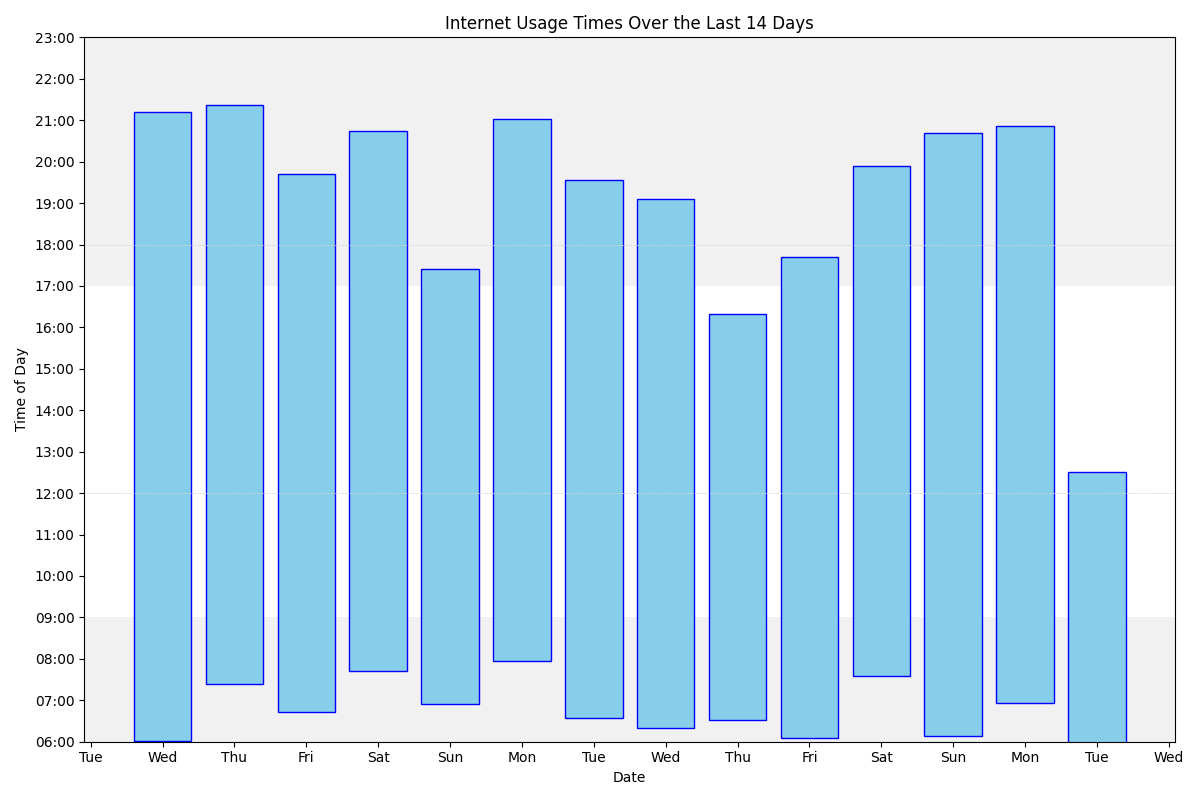
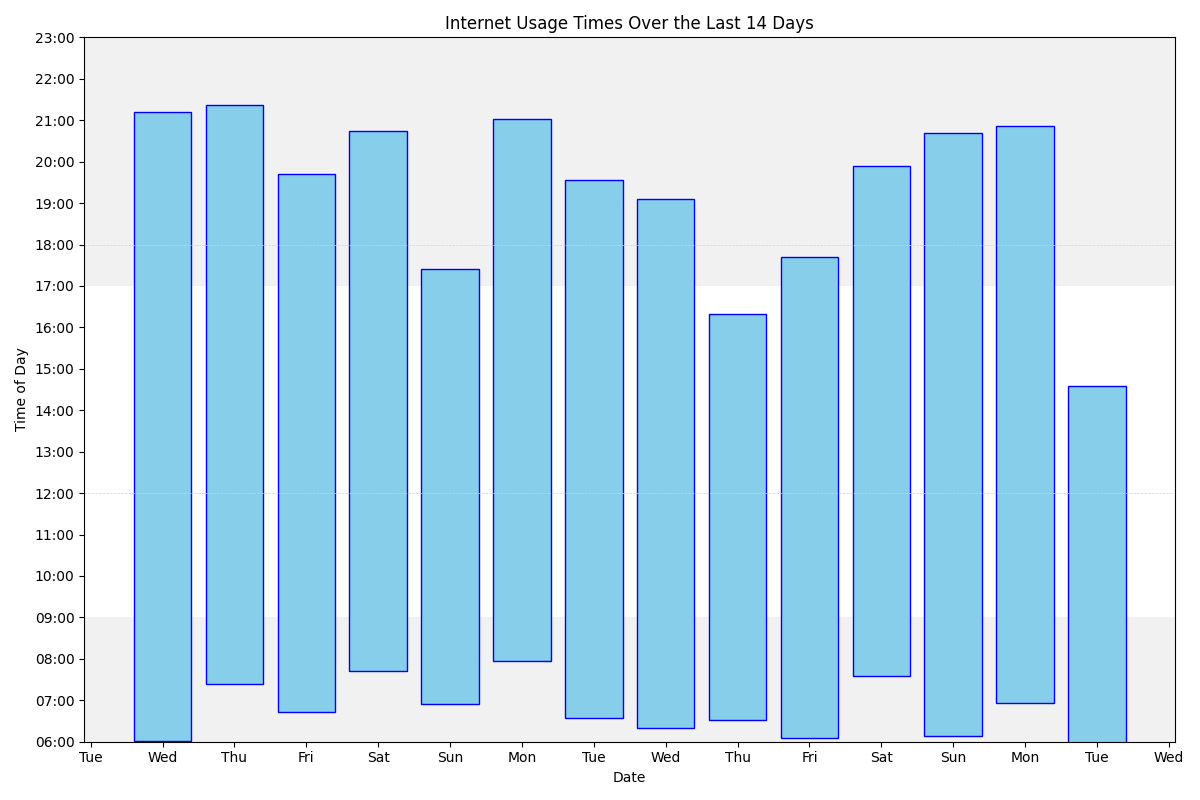
Update

Changed region(s): [[0.8633, 0.4688, 0.9558, 0.5938]]

diff --git a/index.md b/index.md
@@ -68,29 +68,29 @@ ul>li::after {
 <h3> Most common sites</h3>
 With number of accesses/minutes in parentheses
 
-<ol><li>www.google.com (2835)</li>
-<li>outlook.office.com (2449)</li>
-<li>mail.google.com (2252)</li>
+<ol><li>www.google.com (2836)</li>
+<li>outlook.office.com (2455)</li>
+<li>mail.google.com (2263)</li>
 <li>docs.google.com (1785)</li>
 <li>bsky.app (1437)</li>
-<li>outlook.office365.com (1254)</li>
+<li>outlook.office365.com (1255)</li>
 <li>www.facebook.com (1205)</li>
 <li>www.reddit.com (1160)</li>
-<li>duckduckgo.com (834)</li>
+<li>duckduckgo.com (838)</li>
 <li>www.amazon.co.uk (674)</li>
-<li>www.theguardian.com (634)</li>
-<li>chatgpt.com (628)</li>
-<li>calendar.google.com (462)</li>
+<li>www.theguardian.com (635)</li>
+<li>chatgpt.com (629)</li>
+<li>calendar.google.com (463)</li>
 <li>rhul-my.sharepoint.com (443)</li>
+<li>www.linkedin.com (432)</li>
 <li>moodle.royalholloway.ac.uk (430)</li>
-<li>www.linkedin.com (428)</li>
 <li>github.com (396)</li>
 <li>tvtropes.org (331)</li>
-<li>gmail.com (306)</li>
-<li>login.microsoftonline.com (305)</li>
+<li>login.microsoftonline.com (308)</li>
+<li>gmail.com (307)</li>
 <li>fritz.box (276)</li>
-<li>web.whatsapp.com (272)</li>
-<li>feedly.com (254)</li>
+<li>web.whatsapp.com (273)</li>
+<li>feedly.com (256)</li>
 <li>drive.google.com (235)</li>
 <li>chat.openai.com (233)</li>
 <li>qbo.intuit.com (228)</li>
@@ -108,7 +108,67 @@ With number of accesses/minutes in parentheses
 
 <br>
 
-<ul><li> 12:30 www.google.com</li>
+<ul><li> 14:34 calendar.google.com</li>
+<li> 14:34 mail.google.com</li>
+<li> 14:34 login.microsoftonline.com</li>
+<li> 14:34 www.myworkday.com</li>
+<li> 14:33 mail.google.com</li>
+<li> 14:32 web.whatsapp.com</li>
+<li> 14:32 northeastern.wd1.myworkdayjobs.com</li>
+<li> 14:31 www.hesa.ac.uk</li>
+<li class='same'> 14:30 www.hesa.ac.uk</li>
+<li> 14:28 www.linkedin.com</li>
+<li> 14:28 uk.linkedin.com</li>
+<li> 14:28 www.linkedin.com</li>
+<li> 14:28 uk.linkedin.com</li>
+<li> 14:28 www.linkedin.com</li>
+<li> 14:28 duckduckgo.com</li>
+<li> 14:28 www.linkedin.com</li>
+<li> 14:24 northeastern.wd1.myworkdayjobs.com</li>
+<li class='same'> 14:23 northeastern.wd1.myworkdayjobs.com</li>
+<li> 14:23 mail.google.com</li>
+<li class='same'> 14:22 mail.google.com</li>
+<li> 14:22 forum.artofmemory.com</li>
+<li> 14:21 mail.google.com</li>
+<li> 14:21 <a href="https://www.youtube.com/watch?v=6oB5hR5sRv0">So, how does Women's Artistic Gymnastics work at the Olympics? | #Paris2024 - YouTube</a></li>
+<li> 14:20 mail.google.com</li>
+<li> 14:20 northeastern.wd1.myworkdayjobs.com</li>
+<li class='same'> 14:19 northeastern.wd1.myworkdayjobs.com</li>
+<li> 14:17 <a href="https://en.wikipedia.org/wiki/Northeastern_University_%E2%80%93_London">Northeastern University – London - Wikipedia</a></li>
+<li> 14:17 duckduckgo.com</li>
+<li> 14:16 www.jobs.ac.uk</li>
+<li> 14:16 mail.google.com</li>
+<li> 14:15 jobs.edgehill.ac.uk</li>
+<li> 14:15 www.jobs.ac.uk</li>
+<li> 14:15 mail.google.com</li>
+<li class='same'> 14:14 mail.google.com</li>
+<li> 14:14 gmail.com</li>
+<li> 14:14 outlook.office.com</li>
+<li class='same'> 14:13 outlook.office.com</li>
+<li class='same'> 14:12 outlook.office.com</li>
+<li> 14:08 abcnews.go.com</li>
+<li> 14:06 feedly.com</li>
+<li> 14:06 www.feedly.com</li>
+<li> 14:06 feedly.com</li>
+<li> 14:06 outlook.office.com</li>
+<li class='same'> 14:05 outlook.office.com</li>
+<li> 14:05 login.microsoftonline.com</li>
+<li> 14:05 outlook.office.com</li>
+<li> 14:05 login.microsoftonline.com</li>
+<li> 14:05 outlook.office365.com</li>
+<li> 13:55 www.theguardian.com</li>
+</ul>
+
+<br>
+
+<ul><li> 12:52 chatgpt.com</li>
+<li> 12:42 support.ultimaker.com</li>
+<li> 12:41 www.bcn3d.com</li>
+<li> 12:41 duckduckgo.com</li>
+<li> 12:38 www.printables.com</li>
+<li class='same'> 12:37 www.printables.com</li>
+<li> 12:36 duckduckgo.com</li>
+<li> 12:30 www.google.com</li>
 <li> 12:30 accounts.google.com</li>
 <li class='same'> 12:29 accounts.google.com</li>
 <li> 12:29 www.google.com</li>
@@ -125,7 +185,10 @@ With number of accesses/minutes in parentheses
 
 <br>
 
-<ul><li> 11:49 www.google.com</li>
+<ul><li> 11:50 www.healthpartners.com</li>
+<li> 11:50 www.google.com</li>
+<li> 11:50 consent.yahoo.com</li>
+<li> 11:49 www.google.com</li>
 </ul>
 
 <br>
@@ -40220,7 +40283,9 @@ With number of accesses/minutes in parentheses
 <li> 06:59 analytics.google.com</li>
 <li> 06:50 www.wolframalpha.com</li>
 <li> 06:50 docs.google.com</li>
+<li> 06:47 mail.google.com</li>
 <li> 06:35 <a href="https://en.wikipedia.org/wiki/Yahoo!_data_breaches">Yahoo data breaches - Wikipedia</a></li>
+<li> 06:32 mail.google.com</li>
 <li> 06:31 www.gmail.com</li>
 </ul>
 
